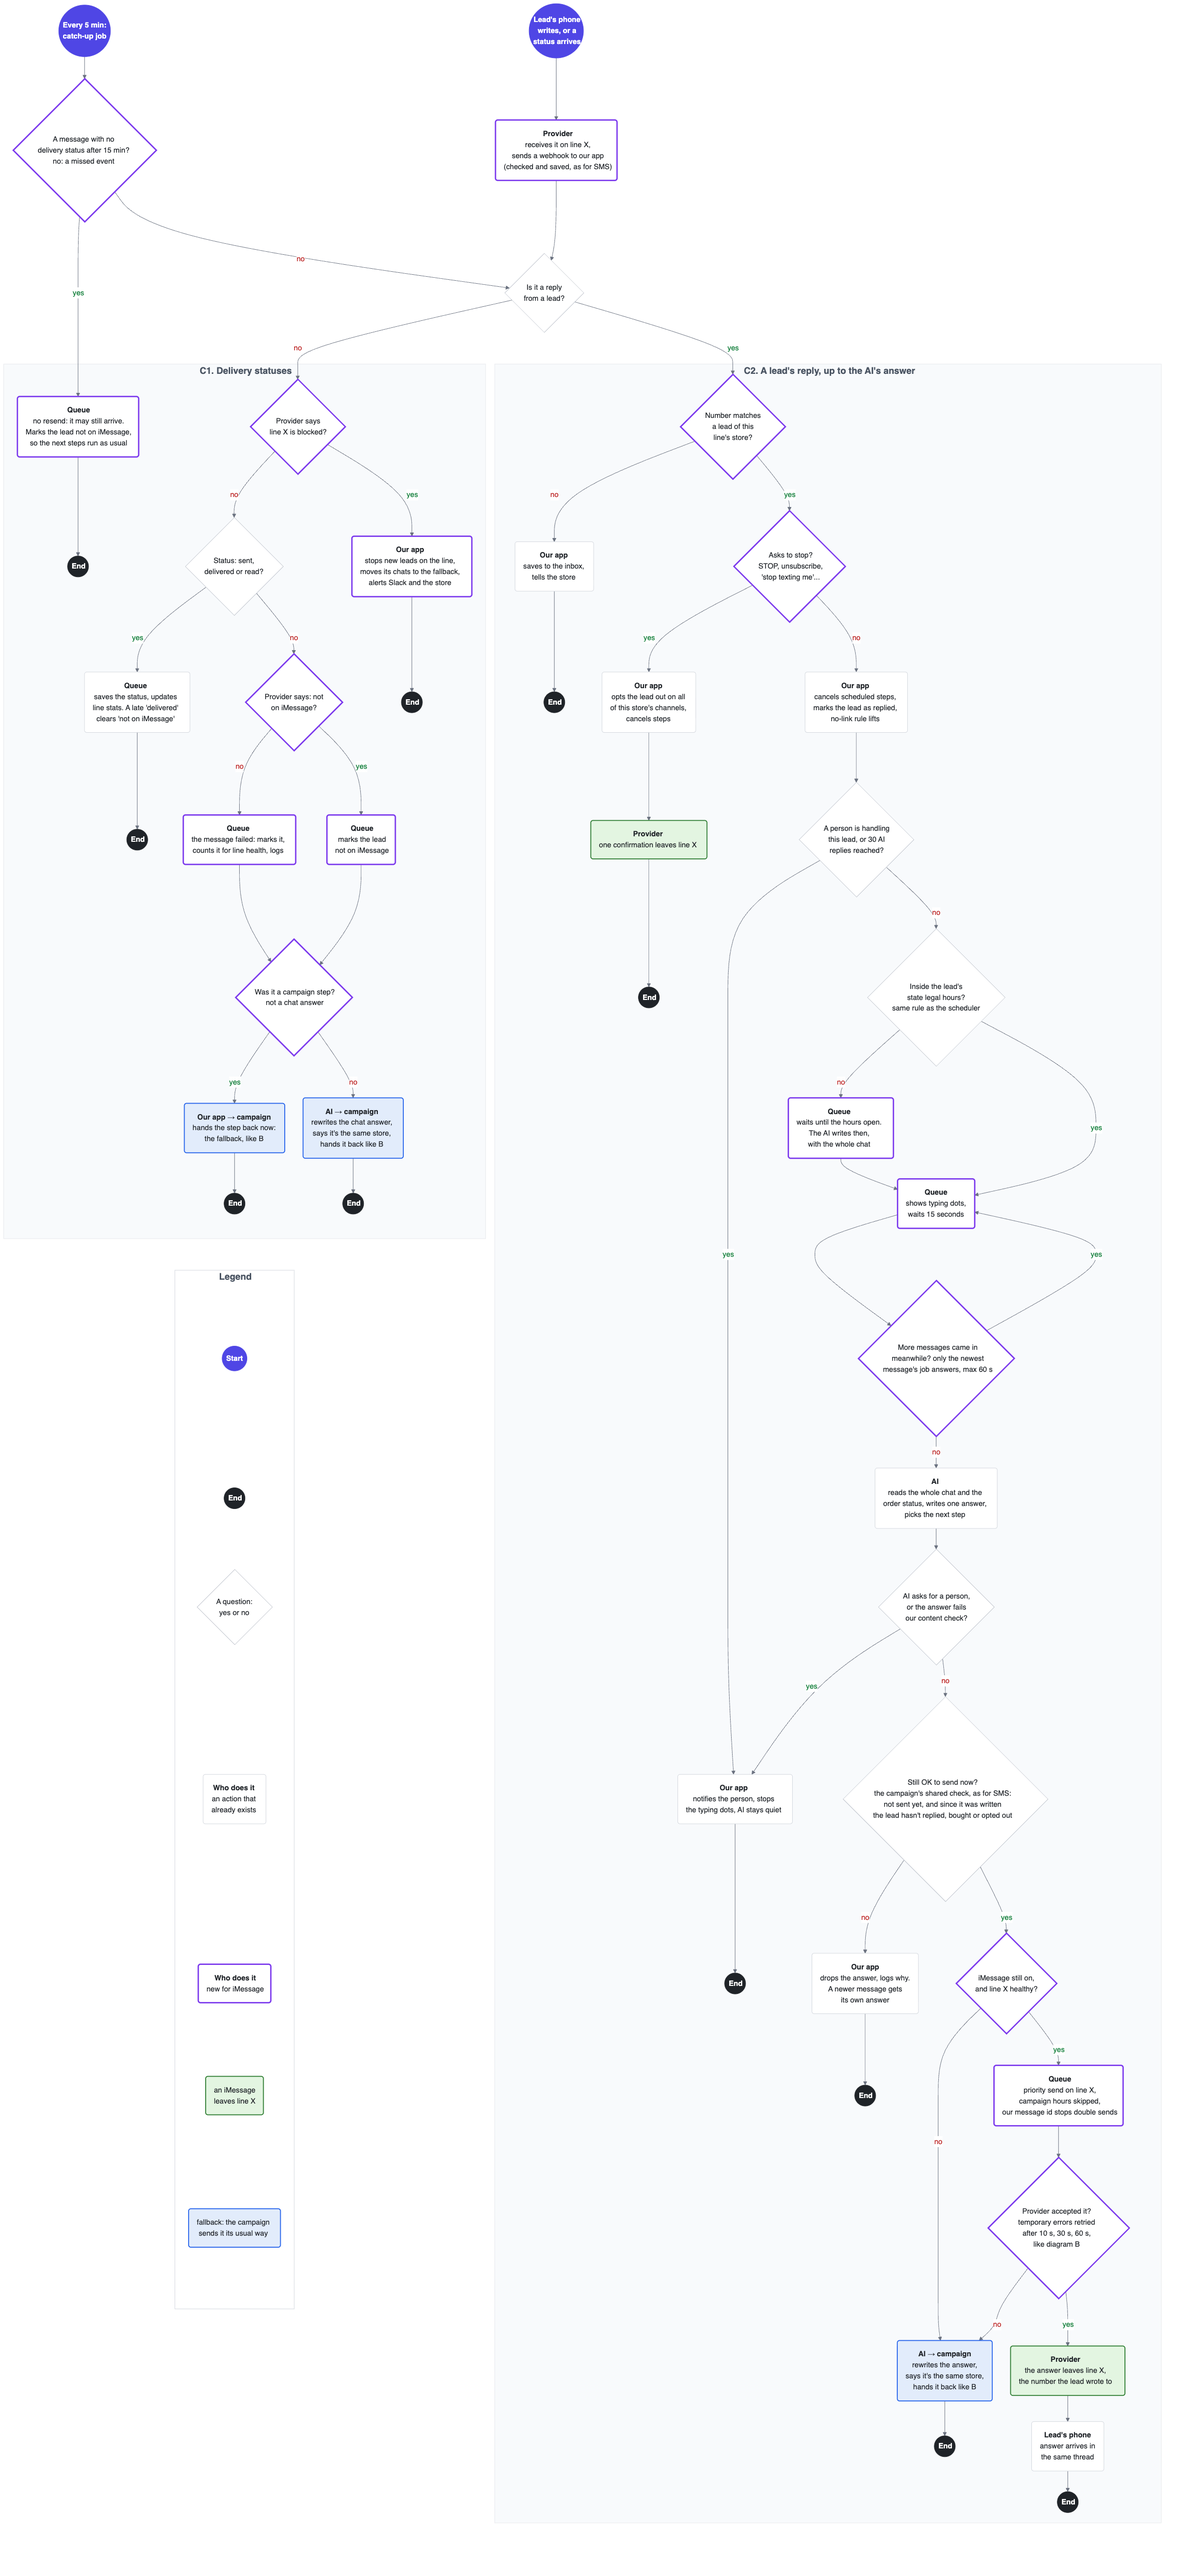
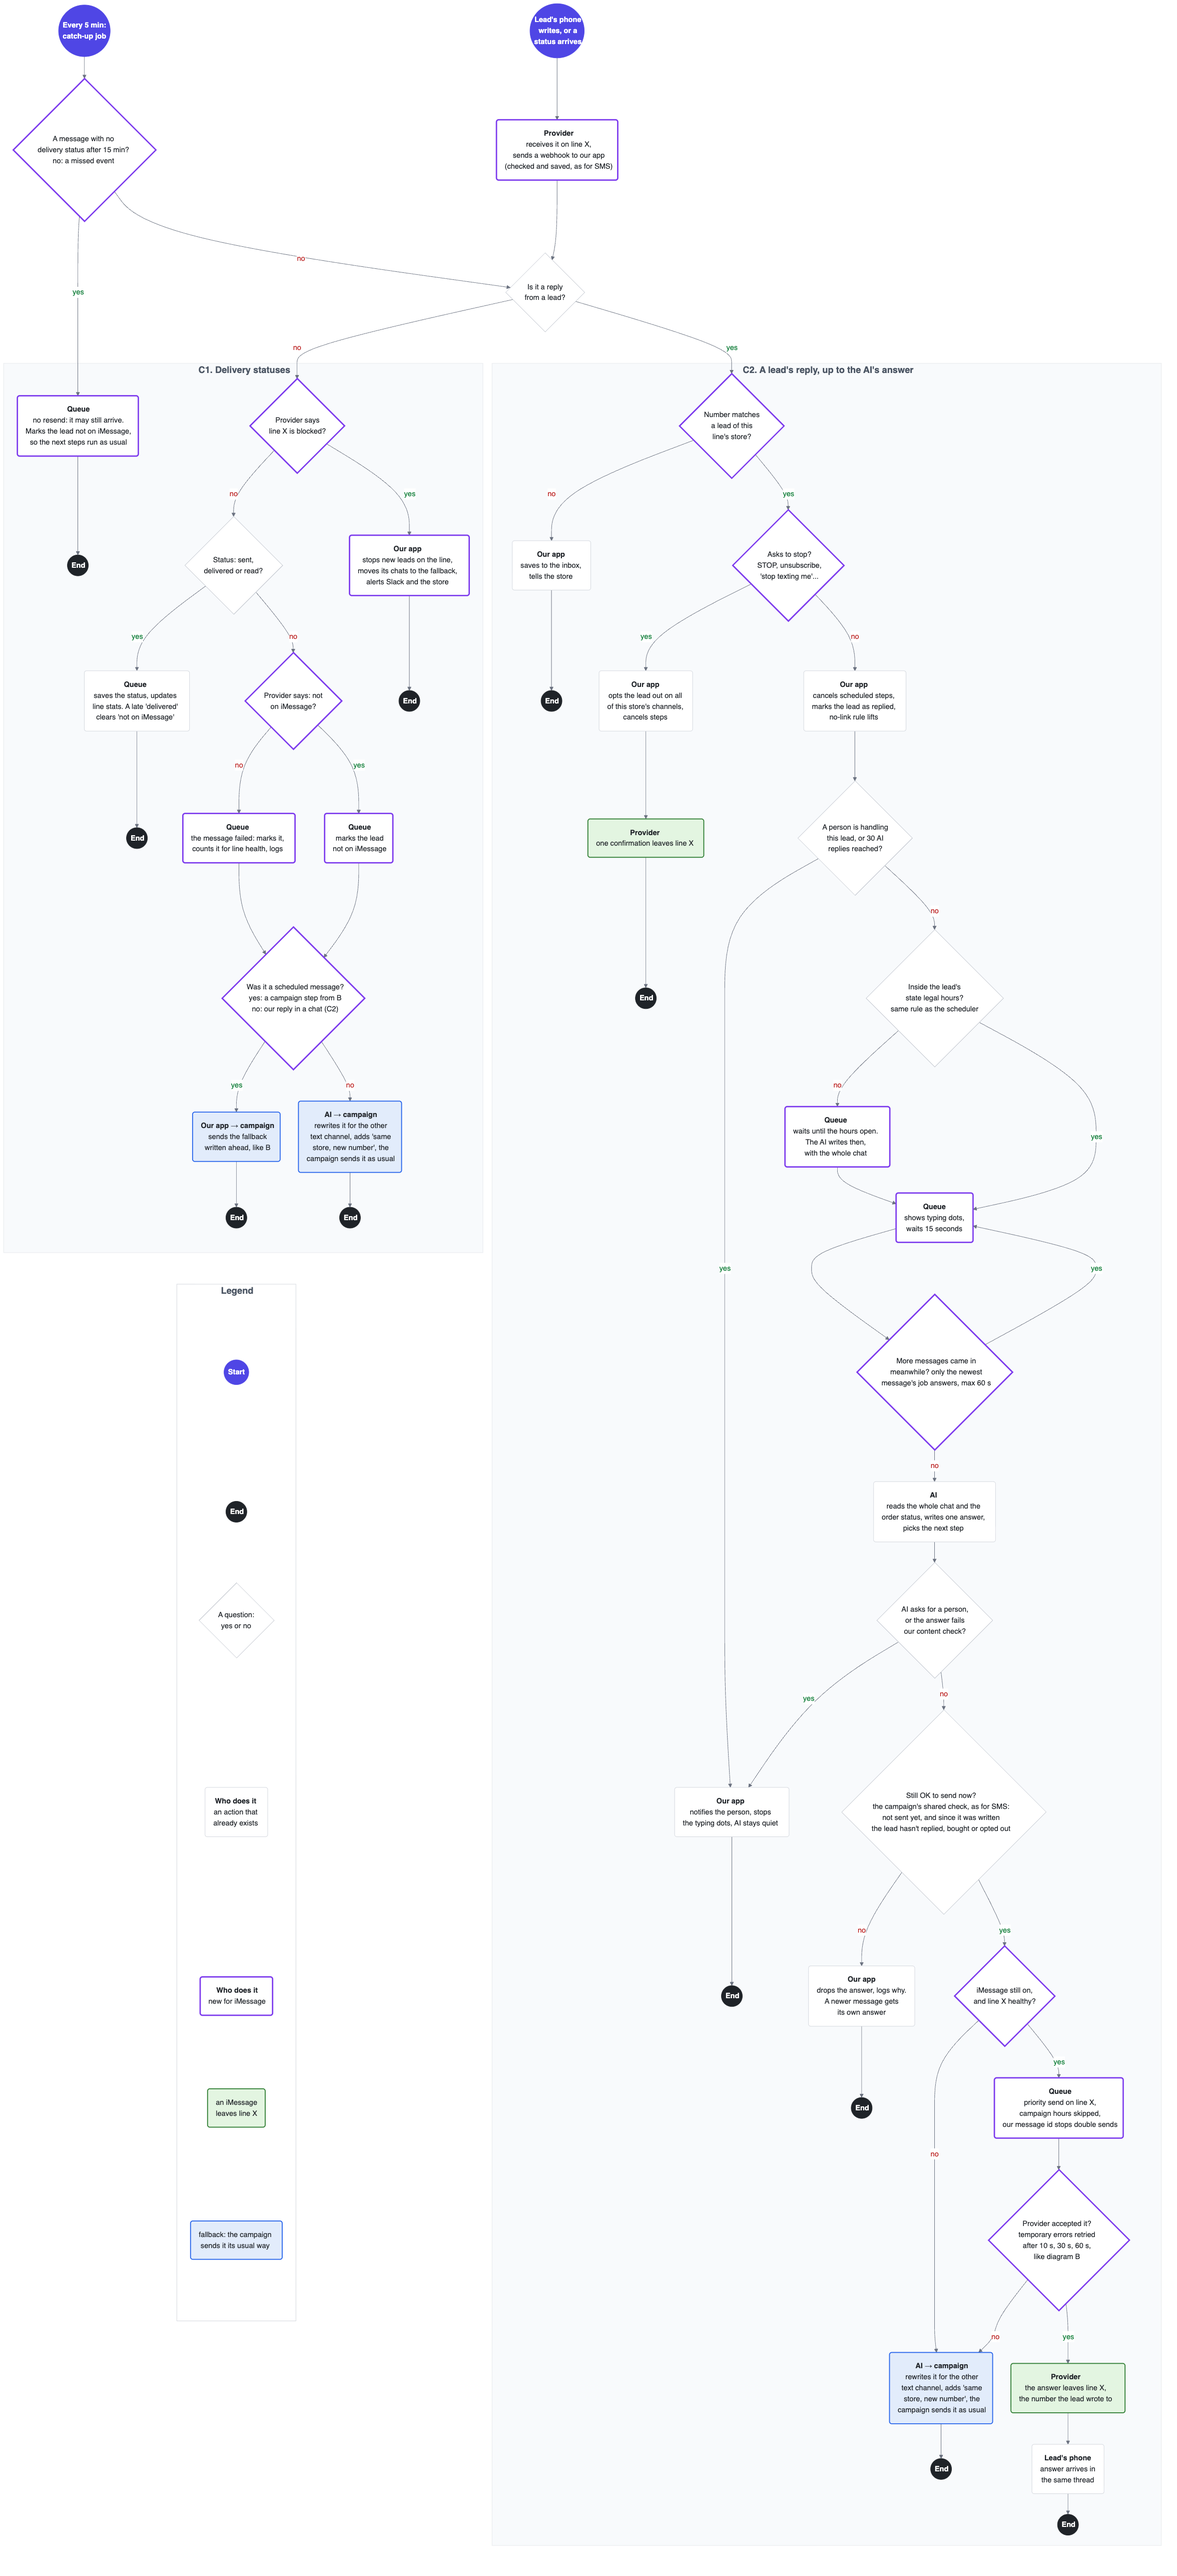
Diagram C: plainer labels for the scheduled-message question and its fallbacks

diff --git a/diagrams.md b/diagrams.md
@@ -121,7 +121,7 @@ flowchart TD
         Q11 -- no --> QS{"Still OK to send now?<br/>the campaign's shared check, as for SMS:<br/>not sent yet, and since it was written<br/>the lead hasn't replied, bought or opted out"}
         QS -- no --> XS("<b>Our app</b><br/>drops the answer, logs why.<br/>A newer message gets<br/>its own answer") --> ES(("<b>End</b>"))
         QS -- yes --> Q12{"iMessage still on,<br/>and line X healthy?"}:::new
-        Q12 -- no --> R6("<b>AI → campaign</b><br/>rewrites the answer,<br/>says it's the same store,<br/>hands it back like B"):::sms --> E10(("<b>End</b>"))
+        Q12 -- no --> R6("<b>AI → campaign</b><br/>rewrites it for the other<br/>text channel, adds 'same<br/>store, new number', the<br/>campaign sends it as usual"):::sms --> E10(("<b>End</b>"))
         Q12 -- yes --> R7("<b>Queue</b><br/>priority send on line X,<br/>campaign hours skipped,<br/>our message id stops double sends"):::new
         R7 --> Q13{"Provider accepted it?<br/>temporary errors retried<br/>after 10 s, 30 s, 60 s,<br/>like diagram B"}:::new
         Q13 -- no --> R6
@@ -138,9 +138,9 @@ flowchart TD
         Q4 -- no --> Q5{"Provider says: not<br/>on iMessage?"}:::new
         Q5 -- no --> D3("<b>Queue</b><br/>the message failed: marks it,<br/>counts it for line health, logs"):::new --> QK
         Q5 -- yes --> DM("<b>Queue</b><br/>marks the lead<br/>not on iMessage"):::new --> QK
-        QK{"Was it a campaign step?<br/>not a chat answer"}:::new
-        QK -- yes --> D5("<b>Our app → campaign</b><br/>hands the step back now:<br/>the fallback, like B"):::sms --> E6(("<b>End</b>"))
-        QK -- no --> RA("<b>AI → campaign</b><br/>rewrites the chat answer,<br/>says it's the same store,<br/>hands it back like B"):::sms --> E4(("<b>End</b>"))
+        QK{"Was it a scheduled message?<br/>yes: a campaign step from B<br/>no: our reply in a chat (C2)"}:::new
+        QK -- yes --> D5("<b>Our app → campaign</b><br/>sends the fallback<br/>written ahead, like B"):::sms --> E6(("<b>End</b>"))
+        QK -- no --> RA("<b>AI → campaign</b><br/>rewrites it for the other<br/>text channel, adds 'same<br/>store, new number', the<br/>campaign sends it as usual"):::sms --> E4(("<b>End</b>"))
         D4("<b>Our app</b><br/>stops new leads on the line,<br/>moves its chats to the fallback,<br/>alerts Slack and the store"):::new --> E5(("<b>End</b>"))
     end
 
